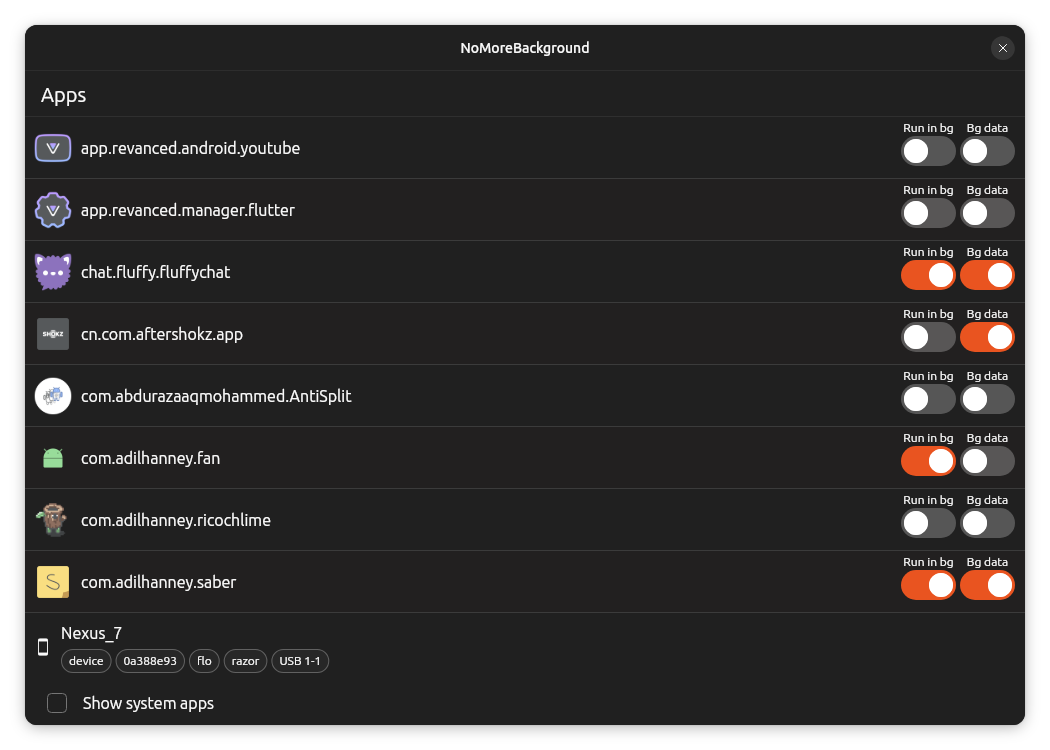
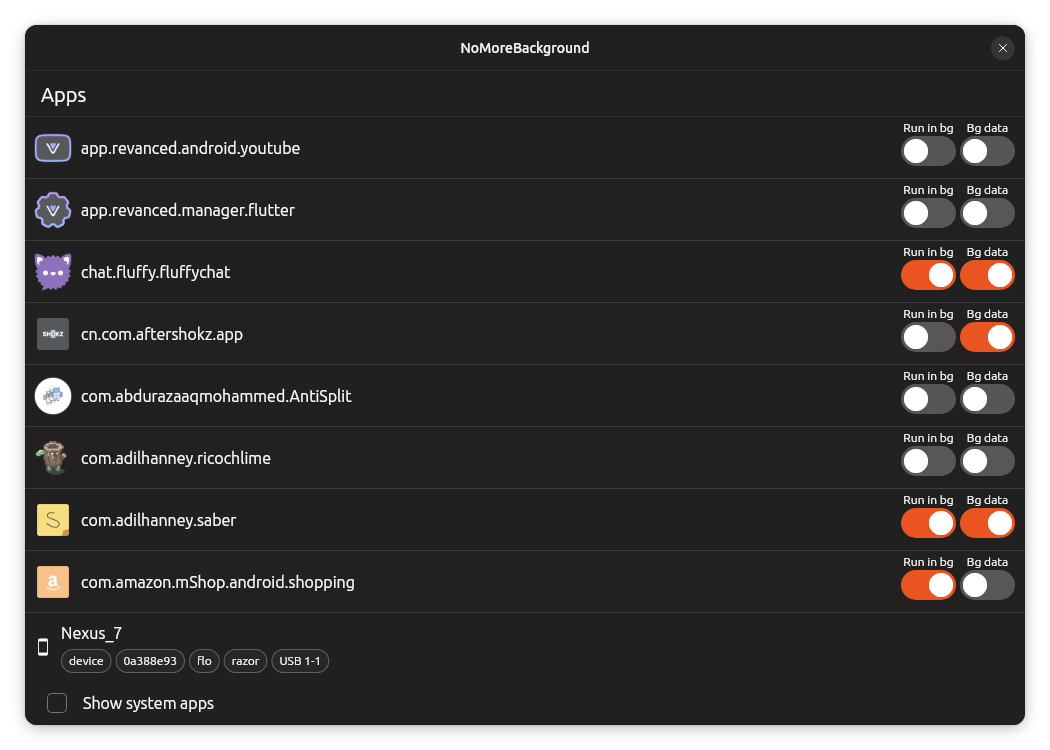
test: use less of my apps in goldens

diff --git a/test/util/test_adb_impl.dart b/test/util/test_adb_impl.dart
@@ -32,14 +32,14 @@ package:app.revanced.manager.flutter  installer=null uid:10050
 package:chat.fluffy.fluffychat  installer=null uid:10055
 package:cn.com.aftershokz.app  installer=com.android.vending uid:10060
 package:com.abdurazaaqmohammed.AntiSplit  installer=com.google.android.packageinstaller uid:10065
-package:com.adilhanney.fan  installer=com.android.vending uid:10070
 package:com.adilhanney.ricochlime  installer=com.android.vending uid:10075
 package:com.adilhanney.saber  installer=com.google.android.packageinstaller uid:10080
-package:com.adilhanney.super_nonogram  installer=com.android.vending uid:10085
 package:com.amazon.mShop.android.shopping  installer=com.android.vending uid:10090
 package:com.celzero.bravedns  installer=com.android.vending uid:10095
 package:com.discord  installer=com.android.vending uid:10100
 package:com.ebay.mobile  installer=com.android.vending uid:10105
+package:com.fitbit.FitbitMobile  installer=com.android.vending uid:10110
+package:com.google.android.apps.adm  installer=com.android.vending uid:10115
 ''',
   );
 
@@ -62,7 +62,7 @@ package:com.ebay.mobile  installer=com.android.vending uid:10105
   }
 
   String restrictedBackgroundDataOutput =
-      'Restrict background blacklisted UIDs: 10045 10050 10065 10070 10075 10085 10090 10100';
+      'Restrict background blacklisted UIDs: 10045 10050 10065 10075 10090 10100';
   @override
   Future<String> getAppsWithRestrictedBackgroundData(AdbDevice device) async {
     return restrictedBackgroundDataOutput;
